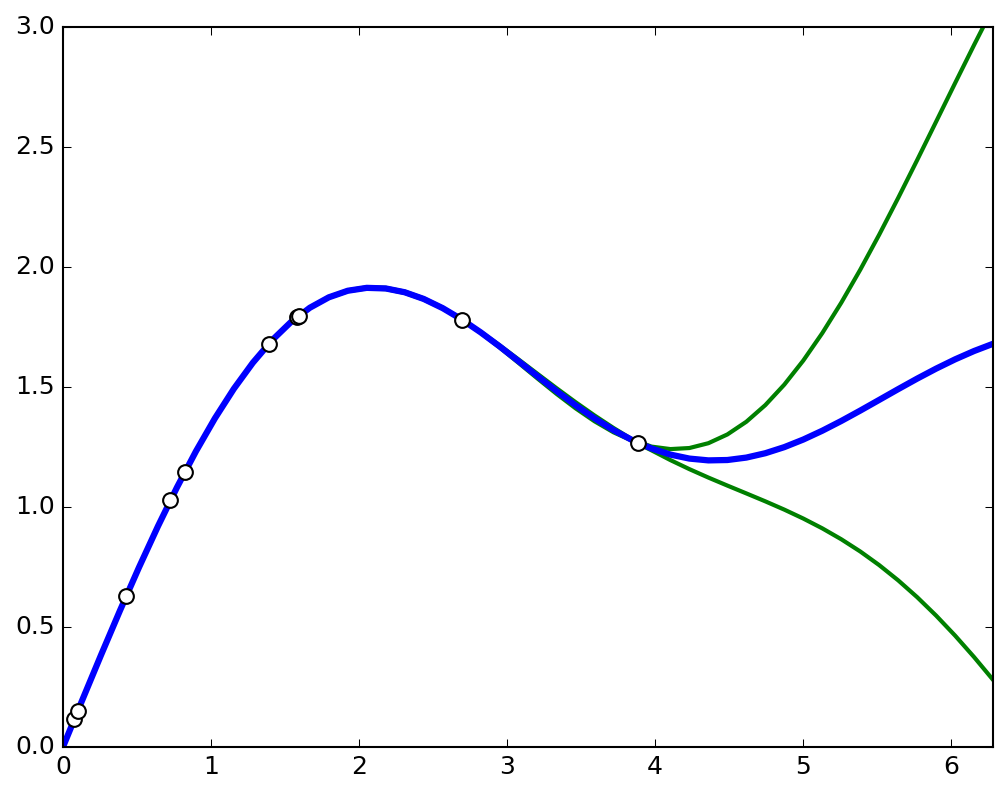
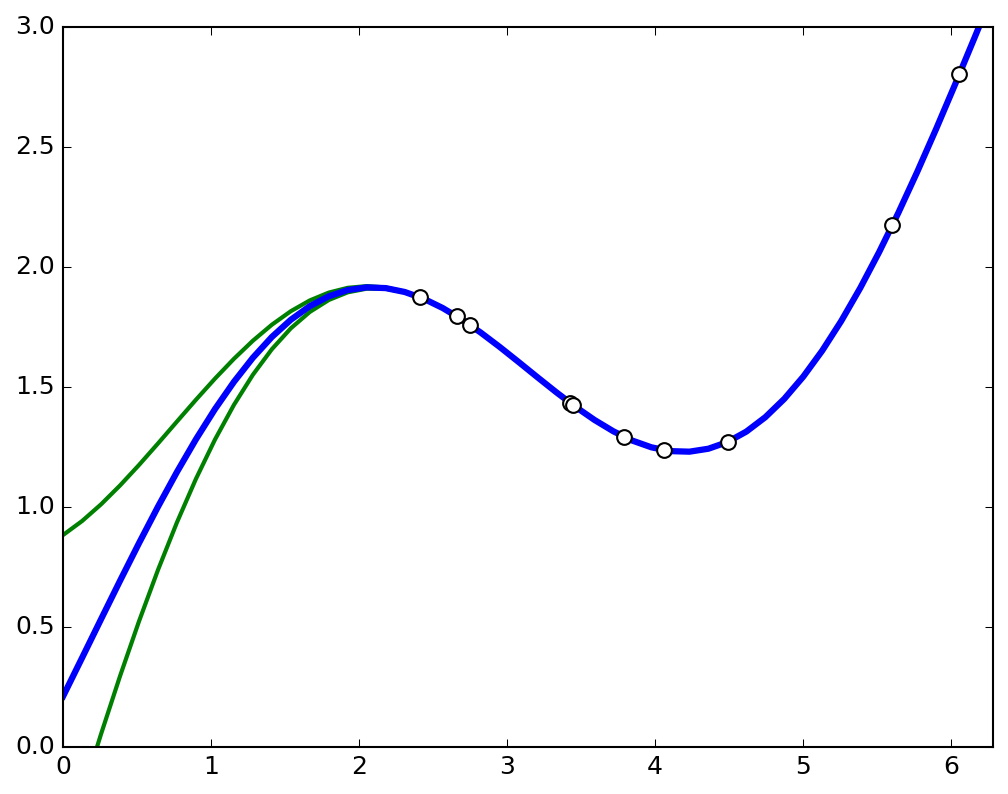
Use same data points for the different examples

diff --git a/script/example_1d.py b/script/example_1d.py
@@ -87,14 +87,17 @@ def main():
     ymin = 0
     ymax = 3.0
 
+    np.random.seed(0)
     example_interpolation(
         xmin, xmax, ymin, ymax, 0.5, 0.3, 'figures/small_covariance'
     )
+    np.random.seed(0)
     example_interpolation(
         xmin, xmax, ymin, ymax, 0.5, 0.5, 'figures/large_covariance'
     )
 
     plot_density(xmin, xmax, ymin, ymax, 20)
+    np.random.seed(0)
     list_observations, list_y = get_observations(xmin, xmax, 10)
 
     # Optimize the parameters of the covariance function
